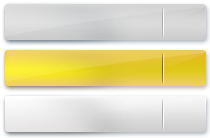
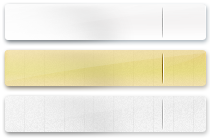
#7 Updating design Control Panel

diff --git a/admin/admin_style/css/stylesheet.css b/admin/admin_style/css/stylesheet.css
@@ -67,7 +67,8 @@
 	.left, img.left {float:left;}
 	.right, img.right {float:right;}
 	
-	.headline {color:#8F8F8F;display:block;font-size:.6em;margin:-.1em 0 0;font-family:"Liberation Sans", Arial, Helvetica, Garuda, sans-serif;font-weight:400;line-height:1;margin:0 0 .5em;padding:0 0 .2em}
+	.headline {color: #318391;display:block;font-size:180%;margin:-5px 0 0 0;font-weight:700;padding:0 0 20px 0;}
+	
 	.titleAll{margin-top:-1em;font-size:90%;}
 	
 	button.btn{background:transparent url(../images/box/button.gif) no-repeat right -92px;border:0;font:bold 100% tahoma;margin:0 5px 0 -6px;outline:none;padding:0 35px 0 0;text-align:center;cursor:pointer;overflow:visible;position:relative;}
@@ -82,8 +83,8 @@
 	#Header,#pageMain,#Footer,#FooterBottom{width:990px}
 	.pageTop{background:transparent url(../images/box/pageBg-top.png) no-repeat 0 0;height:10px;overflow:hidden}
 	.contentArea{margin:0 26px;width:938px}
-	#divmiddle,#main_menu,#MainMenuWrap,#boxs {margin:10px 10px 0 15px !important;float:right;}
-	#divmiddle,#boxs{width:63%;display:inline;}
+	#divmiddle,#main_menu,#MainMenuWrap,#boxs {margin:10px 15px 0 15px !important;float:right;}
+	#divmiddle,#boxs{width:68%;display:inline;}
 
 	/* header */
 	#MenuWrapper{height:62px}
@@ -126,27 +127,20 @@
 
 
 	/* start Main Menu */
-	#MainMenuWrap,#main_menu{margin:10px 20px 0 10px !important;background:transparent url(../images/box/side-navigation-repeat.gif) repeat-y 0 0;}
-	
-	#main_menu{width:220px !important;}
-	#main_menu p{border-bottom: 1px dotted #DBDBDC;}
-	#main_menu .link_menu ,#main_menu .link_current {float:right;height: 46px;width:210px;margin:2px 0;background:url(../images/menu_icons/bg_buttons.png) no-repeat center bottom;}
-	#main_menu .link_current,#main_menu .link_current a:hover {background:url(../images/menu_icons/bg_buttons.png) no-repeat center -46px !important;}
+	#MainMenuWrap,#main_menu{margin:-12px 30px 0 5px !important;background:transparent url(../images/box/menu_repeat.gif) repeat-y 0 0;}
+	#main_menu{width:235px !important;}
+	#main_menu .link_menu ,#main_menu .link_current {float:right;height: 46px;width:210px;margin:0;background:url(../images/menu_icons/bg_buttons.png) no-repeat center bottom;}
+	#main_menu .link_current a,#main_menu .link_current a:hover {background:url(../images/menu_icons/bg_buttons.png) no-repeat center -46px !important;color:#795A1C !important;}
 	#main_menu .link_menu p,#main_menu .link_current p {position: relative;line-height: 100%;}
-	#main_menu .link_current a{color:#000;} 
-	#main_menu  .link_menu a  {display: block;overflow: hidden;font-size:11px;font-weight: bold;height:46px;width:210px;}
+	#main_menu  .link_menu a  {display: block;overflow: hidden;font-size:94%;font-weight: bold;height:46px;width:210px;}
 	#main_menu .link_menu img {padding:2px 0 3px 0;margin:4px 10px 0 14px;}
 	#main_menu .link_menu a:hover{color:#FF8000;text-decoration: none;background:url(../images/menu_icons/bg_buttons.png) no-repeat center top;}
-	span.kbubbles {
-	background:url(../images/menu_icons/kbubbles.png) no-repeat;color:#fff;
-	width:30px;height:28px;padding:7px 0 0;text-align: center;
-	position:absolute;left:-4px;top:0px;z-index:900;
-	font-size:x-small;font-weight: 400;}	
+	span.kbubbles {background:url(../images/menu_icons/kbubbles.png) no-repeat;color:#fff;width:30px;height:28px;padding:7px 0 0;text-align: center;position:absolute;left:-4px;top:0px;z-index:900;font-size:x-small;font-weight: 400;}	
 	
 	/* thumbnail menu */
-	#MainMenuWrap{width:180px;background:transparent url(../images/box/side-navigation-repeat.gif) repeat-y 0 0;}
-	.MainMenuBox1{background:transparent url(../images/box/side-navigation-top.gif) no-repeat 0 0;padding:15px 0 0}
-	.MainMenuBox2{background:transparent url(../images/box/side-navigation-bottom.gif) no-repeat 0 100%;padding:0 0 15px}
+	#MainMenuWrap{width:180px;}
+	.MainMenuBox1{background:transparent url(../images/box/menu_navtop.gif) no-repeat 0 0;padding:15px 0 0}
+	.MainMenuBox2{background:transparent url(../images/box/menu_navbm.gif) no-repeat 0 100%;padding:0 0 15px}
 	.thumbnail {padding:0;}
 	.link_menu_thumbnail,
 	.link_current_thumbnail {float: right;height:64px; line-height:40px; width:70px; margin:0px ;text-align:center;}
@@ -159,8 +153,8 @@
 	.link_current_thumbnail a:hover{cursor:default;}
 	
 	/* # thumbnail  menu */
-	.expand_thumbnail , .expand_thumbnail2{float:right;width:30px; height: 20px;background: url("../images/box/expand_thumbnail.png") no-repeat 0px 0px;}
-	.expand_thumbnail2  {float:left;background-position: 0px -20px;}
+	.expand_thumbnail , .expand_thumbnail2{float:left;width:30px; height: 20px;background: url("../images/box/expand_thumbnail.gif") no-repeat 0px 0px;}
+	.expand_thumbnail2  {background-position: 0px -20px;}
 	.expand_thumbnail:hover {background-position: -30px 0px;}
 	.expand_thumbnail2:hover {background-position: -30px -20px;}
 
@@ -178,17 +172,18 @@
 	.tipsy-w .tipsy-arrow { top: 50%; margin-top: -4px; left: 0; width: 5px; height: 9px; }
 
 	/* ribbon */
-	.ribbon,.ribbon .wrapAround,.ribbon .tab{height:52px;overflow:hidden}
-	.ribbon{margin:-10px -4px 8px -53px;width:638px}
-	.ribbon .wrapAround{background:transparent url(../images/box/ribbon-wrap.png) scroll;float:left;width:52px;display: block;margin-left:-1px;}
-	.ribbon .tab{background:transparent url(../images/box/ribbon.png) no-repeat 0 0;float:left;width:586px}
-	.ribbon span a{font-weight:700;color:#EFDABE;}
-	.ribbon span.STitle{float:right;margin:17px 28px 0 0;font-size:140%;text-shadow:#884005 -1px -1px 1px}
-	.ribbon .STitle a:link, .ribbon .STitle a:visited {color: #EFDABE;}.ribbon .STitle a:hover {color: #fff;}	
+	.ribbon,.ribbon .wrapAround,.ribbon .tab{height:60px;overflow:hidden;}
+	.ribbon{margin:-10px -4px 8px -37px;width:682px}
+	.ribbon .wrapAround{background:transparent url(../images/box/ribbon-wrap.png) no-repeat scroll;float:left;width:52px;display: block;margin-left:-2px;}
+	.ribbon .tab{background:transparent url(../images/box/ribbon.png) no-repeat 0 0;float:left;width:630px}
+	.ribbon span a{font-weight:700;}
+	.ribbon span.STitle{margin:17px 28px 0 20px;font-size:140%;text-shadow:#884005 -1px -1px 1px}
+	.ribbon span.TitleSub {color:#FFF !important;font-size:100%;margin:16px 0 0 20px}
+	.ribbon img.TSubImg{width:59px;height:60px;background:transparent url(../images/menu_icons/mini/img_ctrl_button.png) no-repeat 0 0;}
 
-	
-	
-  
+	.ribbon span a:link, .ribbon span a:visited { color: #EFDABE; }	/* ribbon links (wrap around graphic)  */
+	.ribbon span a:hover, .ribbon span a:active { color: #fff; }
+ 
 
 #border-table,.box_all {padding:0 10px;}
 
@@ -241,7 +236,7 @@ input.button1, input.button3,input.button2 {width: auto !important; padding: 3px
 
 .styles_exp{padding: 10px;font-weight: bold;color:#000;}
 
-.check_all {display:block;text-align:left;margin:4px 0 10px -20px;padding:5px;}
+.check_all {display:block;text-align:left;margin:0 0 10px 0;padding:5px;}
 
 .file_cp1 {width:100%;position: relative;overflow:auto;}
 .small_font {padding:5px 5px 10px 5px;font-size:11px;font-weight: bold;color:#3F5252;text-indent:34px}

diff --git a/admin/admin_style/admin_header.html b/admin/admin_style/admin_header.html
@@ -24,7 +24,7 @@
 <link rel="stylesheet" type="text/css" media="screen" href="{STYLE_PATH_ADMIN}css/ie.css" />
 </IS_BROWSER>
 <IF NAME="MINI_MENU">
-<style type="text/css">#divmiddle {width:698px;}</style>
+<style type="text/css">#divmiddle,#boxs {width:71%;margin-right:30px !important;}</style>
 </IF>
 
 <!--  javascript coding  -->
@@ -75,25 +75,23 @@ var STYLE_PATH_ADMIN = '{STYLE_PATH_ADMIN}';var go_to = '{go_to}';var GET_FORM_K
 			<div id="MainMenuWrap" class="thumbnail">
 			<div class="MainMenuBox1">
 			<div class="MainMenuBox2">
-				<div class="link_menu_thumbnail"><p><a class="seTooltip" title="{lang.RETURN_HOME}" href="{config.siteurl}"><img src="{STYLE_PATH_ADMIN}images/menu_icons/mini/index_button.png" alt="{lang.RETURN_HOME}" style="margin:0 8px;vertical-align:middle;" /></a></p></div>
-				<div class="link_menu_thumbnail"><p><a class="seTooltip" title="{lang.R_CPINDEX}" href="./"><img src="{STYLE_PATH_ADMIN}images/menu_icons/mini/cp_button.png" alt="{lang.R_CPINDEX}" style="margin:0 8px;vertical-align:middle;" /></a></p></div>
+				<div class="link_menu_thumbnail"><p><a class="eTooltip" title="{lang.RETURN_HOME}" href="{config.siteurl}"><img src="{STYLE_PATH_ADMIN}images/menu_icons/mini/index_button.png" alt="{lang.RETURN_HOME}" style="margin:0 8px;vertical-align:middle;" /></a></p></div>
+				<div class="link_menu_thumbnail"><p><a class="eTooltip" title="{lang.R_CPINDEX}" href="./"><img src="{STYLE_PATH_ADMIN}images/menu_icons/mini/cp_button.png" alt="{lang.R_CPINDEX}" style="margin:0 8px;vertical-align:middle;" /></a></p></div>
 				<LOOP NAME="adm_extensions_menu">	
-					<div class="({{current}}?link_menu_thumbnail link_current_thumbnail:link_menu_thumbnail)"><p><a class="seTooltip" title="{{title}}" href="{{link}}" <IF LOOP="confirm"> onclick="javascript:return confirm_from();"</IF>><img src="{{icon_mini}}" alt="{{title}}" style="margin:0 8px;vertical-align:middle;" /></a></p></div>
+					<div class="({{current}}?link_menu_thumbnail link_current_thumbnail:link_menu_thumbnail)"><p><a class="eTooltip" title="{{title}}" href="{{link}}" <IF LOOP="confirm"> onclick="javascript:return confirm_from();"</IF>><img src="{{icon_mini}}" alt="{{title}}" style="margin:0 8px;vertical-align:middle;" /></a></p></div>
 				</LOOP>
-				<div class="clr"></div>
+				<div class="clr"></div><br />
 				<a href="{link_expand_menu}" class="expand_thumbnail"><img src="{STYLE_PATH_ADMIN}images/spacer.gif" alt="{lang.RETURN_HOME}" /></a>
-				<div class="clr"></div>
-			</div>
+				</div>
 			</div>
 			</div>
 		<ELSE>
 		<div id="main_menu">
 			<div class="MainMenuBox1">
 			<div class="MainMenuBox2">
-				<div class="link_menu"><p><a class="eTooltip" title="{lang.RETURN_HOME}" href="{config.siteurl}"><img src="{STYLE_PATH_ADMIN}images/menu_icons/index_sb.png" alt="{lang.RETURN_HOME}" /><span>{lang.RETURN_HOME}</span></a></p></div>
-				<div class="link_menu"><p><a class="eTooltip" title="{lang.R_CPINDEX}" href="./"><img src="{STYLE_PATH_ADMIN}images/menu_icons/cp_sb.png" alt="{lang.R_CPINDEX}" /><span>{lang.R_CPINDEX}</span></a></p></div>
+				<div class="link_menu"><p><a title="{lang.R_CPINDEX}" href="./"><img src="{STYLE_PATH_ADMIN}images/menu_icons/cp_sb.png" alt="{lang.R_CPINDEX}" /><span>{lang.R_CPINDEX}</span></a></p></div>
 				<LOOP NAME="adm_extensions_menu">	
-				<div class="({{current}}?link_menu link_current:link_menu)"><p><a class="eTooltip" title="{{title}}" href="{{link}}" <IF LOOP="confirm"> onclick="javascript:return confirm_from();"</IF>><img src="{{icon}}" alt="{{title}}" /><span>{{lang}}</span></a></p></div>
+				<div class="({{current}}?link_menu link_current:link_menu)"><p><a title="{{title}}" href="{{link}}" <IF LOOP="confirm"> onclick="javascript:return confirm_from();"</IF>><img src="{{icon}}" alt="{{title}}" /><span>{{lang}}</span></a></p></div>
 				</LOOP>
 				<div class="clr"></div><br />
 				<a href="{link_expand_menu}" class="expand_thumbnail2"><img src="{STYLE_PATH_ADMIN}images/spacer.gif" alt="{lang.RETURN_HOME}" /></a>

diff --git a/admin/admin_style/admin_img.html b/admin/admin_style/admin_img.html
@@ -35,8 +35,6 @@ $(document).ready(function() {
 <!-- start temlate displaying images -->
 <div id="boxs">
 	<form method="post" action="{action}" name="imgform" onsubmit="javascript:return confirm_from();">
-	<!-- body box -->
-	<div class="bodybox">
 	
 	<!-- title  -->
 	<p class="titleAll"><a href="./">{lang.R_CPINDEX}</a> <span>&raquo;</span>{lang.R_IMG_CTRL}</p>
@@ -44,8 +42,10 @@ $(document).ready(function() {
 	<!-- clear  -->
 	<div class="clr"></div>
 	
-	<div class="ribbon"><div class="wrapAround"></div><div class="tab"><span class="STitle"><a href="index.php?cp=d_img_ctrl">{lang.R_IMG_CTRL}</a></span></div></div>
+	<div class="ribbon"><div class="wrapAround"></div><div class="tab"><img class="left TSubImg" src="{STYLE_PATH_ADMIN}images/spacer.gif" alt="" /><span class="STitle left"><a href="index.php?cp=d_img_ctrl">{lang.R_IMG_CTRL}</a></span></div></div>
 
+	<br /><div class="hr"></div>
+	
 	<IF NAME="no_results">
 	<div class="nothing"><img class="imgtitle" src="{STYLE_PATH_ADMIN}images/icon/warning_nothing.gif" alt="nothing" />{lang.NOTHING}</div>
 	<ELSE>
@@ -65,19 +65,17 @@ $(document).ready(function() {
 	</LOOP>
 	</table>
 
-	<div style="clr"></div>
-
-	<div class="check_all">[ <a href="javascript:void(0);" onclick="checkAll(document.imgform, '_del', 'su', 'ored');">{lang.CHECK_ALL}</a> ]</div>
-
-	<div class="clr"></div>
-
+	<br /><div class="hr"></div>
+	
+	<div class="left check_all">[ <a href="javascript:void(0);" onclick="checkAll(document.imgform, '_del', 'su', 'ored');">{lang.CHECK_ALL}</a> ]</div>
+	
 	<!-- pagination -->{page_nums}
 
-	<p class="left" style="margin: -7px 0 0;"><button type="submit" name="submit" class="btn"><span>{lang.DEL_SELECTED}</span></button></p>
-	<div class="clr"></div>
+	<div class="hr"></div><br />
+
+	<p class="left" style="margin-top:-15px;"><button type="submit" name="submit" class="btn"><span>{lang.DEL_SELECTED}</span></button></p>
 
 	</IF>
-	</div><!-- body box -->
 	
 	{H_FORM_KEYS}
 	</form>

diff --git a/admin/admin_style/admin_start.html b/admin/admin_style/admin_start.html
@@ -41,16 +41,12 @@ $(document).ready(function(){
 <!-- start body panel  -->
 <div id="boxs">
 
-	<!-- start box all -->
-	<div class="box_all">
-
 	<!-- title panel admin -->
-	<h1 class="headline"><strong>&#9679; {lang.R_CPINDEX}</strong></h1>
+	<h1 class="left headline">{lang.KLEEJA_CP}</h1>
 
+	<!-- start clear  -->
+	<div class="hr"></div><br />
 
-<!-- start clear  -->
-<div class="clr"></div><br />
-<!-- # clear  -->
 
 <!-- start >> error System Messages -->
 <LOOP NAME="ADM_NOTIFICATIONS">
@@ -74,11 +70,12 @@ $(document).ready(function(){
 
 
 </LOOP>
-<!-- # error System Messages -->
 
-<!-- start clear  -->
+
+	<div class="ribbon"><div class="wrapAround"></div><div class="tab"><span class="STitle right"><a href="index.php?cp=d_img_ctrl">{lang.USER_STAT}</a></span></div></div>
+
 <div class="clr"></div>
-<!-- # clear  -->
+
 
 <!-- start view list control panel -->
 <div class="list_control_panel">
@@ -301,15 +298,13 @@ $(document).ready(function(){
 <div class="clr"></div>
 <!-- # clear  -->
 
-</div>
-<!-- # box all -->
+
 
 <!-- start clear  -->
 <div class="clr"></div><br />
 <!-- # clear  -->
 
-<!-- start box all -->
-<div class="box_all">
+
 
 <!-- start team kleeja -->
 <div class="team_info">
@@ -353,8 +348,7 @@ $(document).ready(function(){
 <!-- #  team kleeja -->
 
 	<div class="clr"></div>
-</div>
-<!-- # box all -->
+
 
 
 

diff --git a/admin/admin_style/admin_footer.html b/admin/admin_style/admin_footer.html
@@ -61,6 +61,17 @@
 		$('.eTooltip').tipsy({gravity: 'e'});
 		$('.seTooltip').tipsy({gravity: 'se'});
 		$('.mmTooltip').tipsy({gravity: 's'});// nw | n | ne | w | e | sw | s | se
+		
+		$(".thumbnail").fadeTo("slow", 0.7); 
+						   $(".thumbnail").hover(function(){
+						   $(this).fadeTo("slow", 1.0); 
+						   },function(){
+						   $(this).fadeTo("slow", 0.7);
+							   	});
+
+								
+
+		
 	  });
 	//-->
 	</script>
